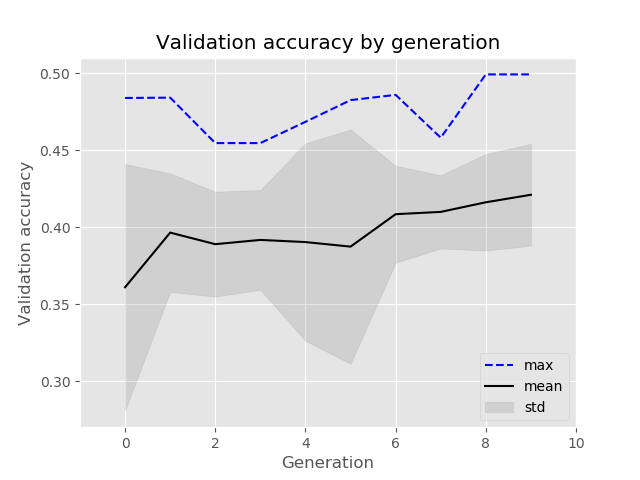
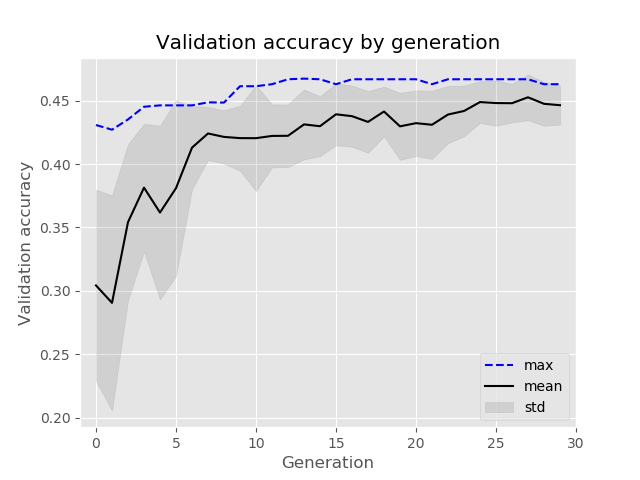
changed nn example a bit, and changed the nn hyperparams defaults

diff --git a/nn_example.py b/nn_example.py
@@ -1,6 +1,6 @@
 import naturalselection as ns
 
-def preprocessing(X):
+def image_preprocessing(X):
     ''' Basic normalisation and scaling preprocessing. '''
     import numpy as np
     X = X.reshape((-1, np.prod(X.shape[1:])))
@@ -9,77 +9,77 @@ def preprocessing(X):
     X -= X.mean(axis = 0)
     return X
 
-def mnist_train_val_sets():
-    ''' Get normalised and scaled MNIST train- and val sets. '''
-    from tensorflow.keras.utils import to_categorical
-    import mnist
-    X_train = preprocessing(mnist.train_images())
-    Y_train = to_categorical(mnist.train_labels())
-    X_val = preprocessing(mnist.test_images())
-    Y_val = to_categorical(mnist.test_labels())
-    return (X_train, Y_train, X_val, Y_val)
+def train_val_sets(kind = 'mnist'):
+    ''' Get normalised and scaled train- and val sets. '''
 
-def cifar10_train_val_sets():
-    ''' Get normalised and scaled CIFAR-10 train- and val sets. '''
     from tensorflow.keras.utils import to_categorical
-    from tensorflow.keras.datasets import cifar10
-    (X_train, Y_train), (X_val, Y_val) = cifar10.load_data()
-    X_train = preprocessing(X_train)
+    if kind == 'mnist':
+        import tensorflow.keras.datasets.mnist as data
+    if kind == 'fashion_mnist':
+        import tensorflow.keras.datasets.fashion_mnist as data
+    elif kind == 'cifar10':
+        import tensorflow.keras.datasets.cifar10 as data
+    elif kind == 'cifar100':
+        import tensorflow.keras.datasets.cifar100 as data
+    elif kind == 'boston_housing':
+        import tensorflow.keras.datasets.boston_housing as data
+    elif kind == 'imdb':
+        import tensorflow.keras.datasets.imdb as data
+    elif kind == 'reuters':
+        import tensorflow.keras.datasets.reuters as data
+    else:
+        raise NameError('Dataset not recognised.')
+
+    (X_train, Y_train), (X_val, Y_val) = data.load_data()
+    X_train = image_preprocessing(X_train)
     Y_train = to_categorical(Y_train)
-    X_val = preprocessing(X_val)
+    X_val = image_preprocessing(X_val)
     Y_val = to_categorical(Y_val)
     return (X_train, Y_train, X_val, Y_val)
 
+def evolve_nn(kind = 'mnist'):
 
-print("\n~~~ Now evolving MNIST ~~~")
+    if kind == 'mnist':
+        max_training_time = 60
+    if kind == 'fashion_mnist':
+        max_training_time = 240
+    elif kind == 'cifar10':
+        max_training_time = 120
+    elif kind == 'cifar100':
+        max_training_time = 240
+    else:
+        raise NameError('Dataset not recognised.')
 
-nns = ns.NNs(
-    size = 30,
-    train_val_sets = mnist_train_val_sets(),
-    loss_fn = 'categorical_crossentropy',
-    score = 'accuracy',
-    output_activation = 'softmax',
-    max_training_time = 60,
-    max_epochs = 1,
-    )
+    print(f"\n~~~ Now evolving {kind} ~~~")
 
-history = nns.evolve(generations = 20)
-print("Best overall genome:", history.fittest)
+    nns = ns.NNs(
+        size = 30,
+        train_val_sets = train_val_sets(kind),
+        loss_fn = 'categorical_crossentropy',
+        score = 'accuracy',
+        output_activation = 'softmax',
+        max_training_time = max_training_time,
+        max_epochs = 1,
+        )
 
-history.plot(
-    title = "Validation accuracy by generation",
-    ylabel = "Validation accuracy",
-    show_plot = False,
-    file_name = "mnist_plot.png"
-    )
+    history = nns.evolve(generations = 30)
+    print("Best overall genome:", history.fittest)
 
-best_score = nns.train_best()
-print("Best score:", best_score)
+    history.plot(
+        title = "Validation accuracy by generation",
+        ylabel = "Validation accuracy",
+        show_plot = False,
+        file_name = f'{kind}_plot.png'
+        )
 
-
-#print("\n~~~ Now evolving CIFAR-10 ~~~")
-#
-#nns = ns.NNs(
-#    size = 50,
-#    train_val_sets = cifar10_train_val_sets(),
-#    loss_fn = 'categorical_crossentropy',
-#    score = 'accuracy',
-#    output_activation = 'softmax',
-#    max_training_time = 300,
-#    max_epochs = 3,
-#    )
-#
-#history = nns.evolve(generations = 10)
-#print("Best overall genome:", history.fittest)
-#
-#history.plot(
-#    title = "Validation accuracy by generation",
-#    ylabel = "Validation accuracy",
-#    show_plot = False,
-#    file_name = "cifar10_plot.png"
-#    )
-#
-#best_score = nns.train_best()
-#print("Best score:", best_score)
+    best_score = nns.train_best()
+    print("Best score:", best_score)
 
 
+if __name__ == '__main__':
+    from sys import argv
+    if len(argv) > 1:
+        for arg in argv[1:]:
+            evolve_nn(arg)
+    else:
+        evolve_nn()

diff --git a/naturalselection/nn.py b/naturalselection/nn.py
@@ -27,9 +27,8 @@ class NN(ns.Genus):
         input_dropout = np.arange(0, 0.6, 0.1),
         hidden_dropout = np.arange(0, 0.6, 0.1),
         neurons = np.array([2 ** n for n in range(4, 11)]),
-        optimizer = np.array(['sgd', 'rmsprop', 'adagrad', 'adadelta',
-                              'adamax', 'adam', 'nadam']),
-        hidden_activation = np.array(['relu', 'elu', 'softplus', 'softsign']),
+        optimizer = np.array(['adamax', 'adam', 'nadam']),
+        hidden_activation = np.array(['relu', 'elu']),
         batch_size = np.array([2 ** n for n in range(4, 7)]),
         initializer = np.array(['lecun_uniform', 'lecun_normal',
                                 'glorot_uniform', 'glorot_normal',
@@ -81,10 +80,8 @@ class NNs(ns.Population):
         input_dropout = np.arange(0, 0.6, 0.1),
         hidden_dropout = np.arange(0, 0.6, 0.1),
         neurons = np.array([2 ** n for n in range(4, 11)]),
-        optimizer = np.array(['sgd', 'rmsprop', 'adagrad', 'adadelta',
-                              'adamax', 'adam', 'nadam']),
-        hidden_activation = np.array(['relu', 'elu', 'softplus',
-                                      'softsign']),
+        optimizer = np.array(['adamax', 'adam', 'nadam']),
+        hidden_activation = np.array(['relu', 'elu']),
         batch_size = np.array([2 ** n for n in range(4, 7)]),
         initializer = np.array(['lecun_uniform', 'lecun_normal',
                                 'glorot_uniform', 'glorot_normal',
@@ -300,11 +297,13 @@ class NNs(ns.Population):
         callbacks = [earlier_stopping]
         if self.progress_bars >= 3:
             if worker_idx:
+                desc = f'Worker {worker_idx % self.workers}, '
                 tqdm_callback = TQDMCallback(
                     show_outer = False, 
                     inner_position = (worker_idx % self.workers) + 2,
                     leave_inner = False,
-                    inner_description_update = 'Epoch: {epoch}'
+                    inner_description_update = desc + 'Epoch {epoch}',
+                    inner_description_initial = desc + 'Epoch {epoch}'
                     )
             else:
                 tqdm_callback = TQDMCallback(
